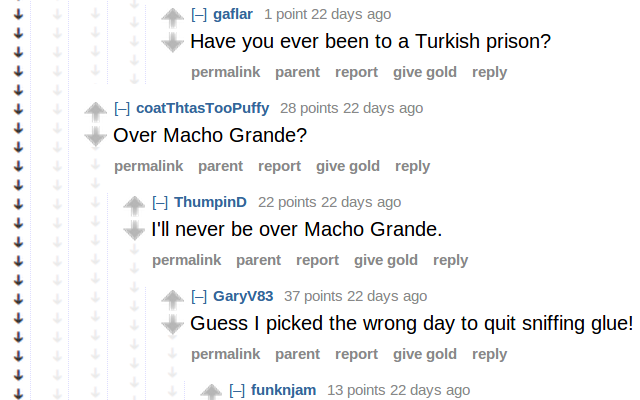
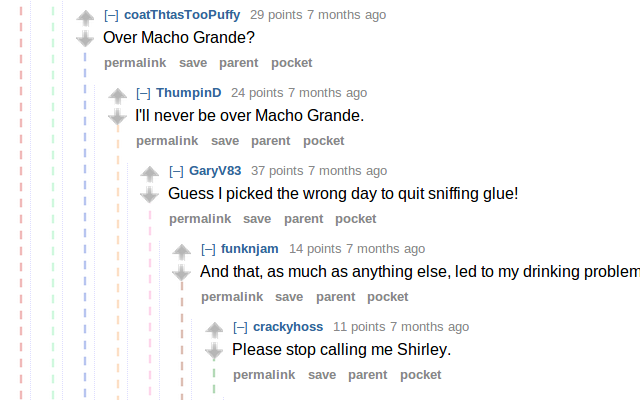
2.0 - new collapser theme and deleted/new comment fix

diff --git a/js/comment-collapser.js b/js/comment-collapser.js
@@ -1,24 +1,84 @@
 
+var colours = [
+    'blue',
+    'red',
+    'green',
+    'navy',
+    'orange',
+    'pink',
+    'brown',
+    'dark_green',
+    'lilac',
+    'army',
+];
+
+
+MutationObserver = window.MutationObserver || window.WebKitMutationObserver;
+
+var observer = new MutationObserver(function(mutations) {
+    var once = false;
+    $.each(mutations, function(index, mutation) {
+        if (mutation.type === 'childList') {
+            $.each(mutation.addedNodes, function(index, node) {
+                if ($(node).hasClass('comment')) {
+                    console.log(once);
+                    if (!once) {
+                        once = true;
+                        add_collapsers.bind($(node.parentNode.parentNode.parentNode))();
+                    }
+                    add_collapsers.bind($(node))();
+                }
+            });
+        }
+    });
+});
+
+observer.observe(document, {
+    subtree: true,
+    childList: true
+});
+
+
 // Add a collapser div to every non-deleted comment
-$('.comment:not(.deleted)').each(function(index) {
+$('.comment').each(add_collapsers);
+$(document).ajaxSuccess(add_collapsers);
+
+function add_collapsers() {
 
 	var collapser;
-	var midcol = $(this).children('.midcol');
+    var anchor;
+
+    if ($(this).hasClass('deleted')) {
+        anchor = $(this).children('.entry');
+    } else {
+        anchor = $(this).children('.midcol');
+    }
+
 	var num_child_comments = $(this).find('> .child .comment').length;
+    var depth = $(this).parents('.comment').length;
+    var colour = colours[depth % 10];
 
 	if (num_child_comments > 0) {
 
-		collapser = $('<div class="collapser"></div>');
+        var width;
+
+        if ($(this).hasClass('deleted')) {
+            width = '10px';
+        } else {
+            width = anchor.width();
+        }
+
+		collapser = $('<div class="collapser ' + colour + '"></div>');
 		collapser.css({
-			'height' : '-webkit-calc(100% - ' + midcol.height() + 'px)',
-			'width'  : midcol.width()
+			'height' : '-webkit-calc(100% - ' + anchor.height() + 'px)',
+			'width'  : width
 		});
 
-		midcol.append(collapser);
+		anchor.append(collapser);
 
 		collapser.click(collapse_comment);
-	};
-});
+	}
+}
 
 // Collapse a comment and all of it's children when a collapser is clicked
 function collapse_comment(event) {
@@ -38,7 +98,7 @@ function collapse_comment(event) {
 			scrollTop: collapsed.offset().top
 		}, 300);
 	}
-};
+}
 
 // Test whether a given element is visible in the viewport
 function elementInViewport(element) {

diff --git a/css/comment-collapser.css b/css/comment-collapser.css
@@ -5,12 +5,52 @@
 .collapser {
 	z-index:5;
 	position: absolute;
-	background-image: url('chrome-extension://__MSG_@@extension_id__/image/arrow.png');
 	background-repeat: repeat-y;
 	background-position: center;
-	opacity: .1;
+	opacity: .4;
 }
 
 .collapser:hover {
 	opacity: 1;
+    cursor: pointer;
+}
+
+.army {
+	background-image: url('chrome-extension://__MSG_@@extension_id__/image/colours/army.png');
+}
+
+.blue {
+	background-image: url('chrome-extension://__MSG_@@extension_id__/image/colours/blue.png');
+}
+
+.brown {
+	background-image: url('chrome-extension://__MSG_@@extension_id__/image/colours/brown.png');
+}
+
+.green {
+	background-image: url('chrome-extension://__MSG_@@extension_id__/image/colours/green.png');
+}
+
+.lilac {
+	background-image: url('chrome-extension://__MSG_@@extension_id__/image/colours/lilac.png');
+}
+
+.navy {
+	background-image: url('chrome-extension://__MSG_@@extension_id__/image/colours/navy.png');
+}
+
+.orange {
+	background-image: url('chrome-extension://__MSG_@@extension_id__/image/colours/orange.png');
+}
+
+.pink {
+	background-image: url('chrome-extension://__MSG_@@extension_id__/image/colours/pink.png');
+}
+
+.red {
+	background-image: url('chrome-extension://__MSG_@@extension_id__/image/colours/red.png');
+}
+
+.dark_green {
+	background-image: url('chrome-extension://__MSG_@@extension_id__/image/colours/dark_green.png');
 }
